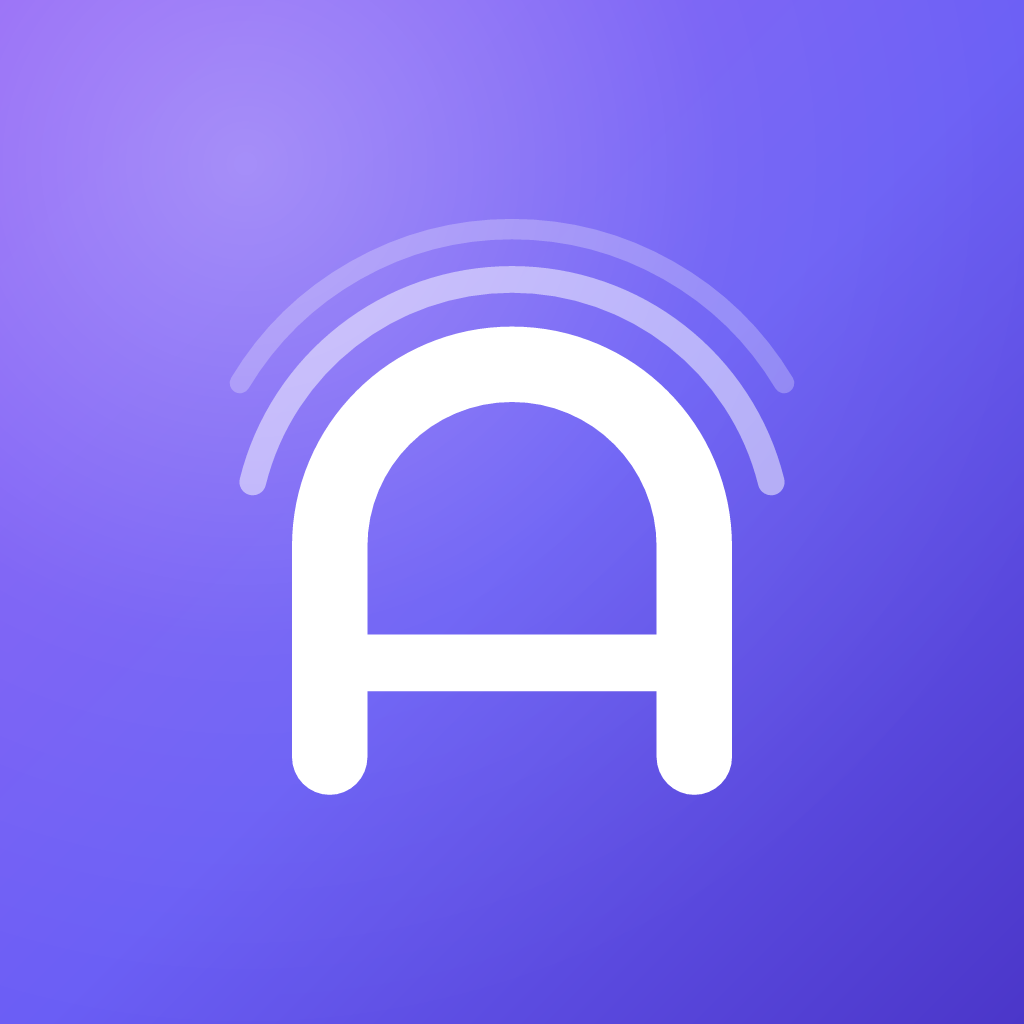
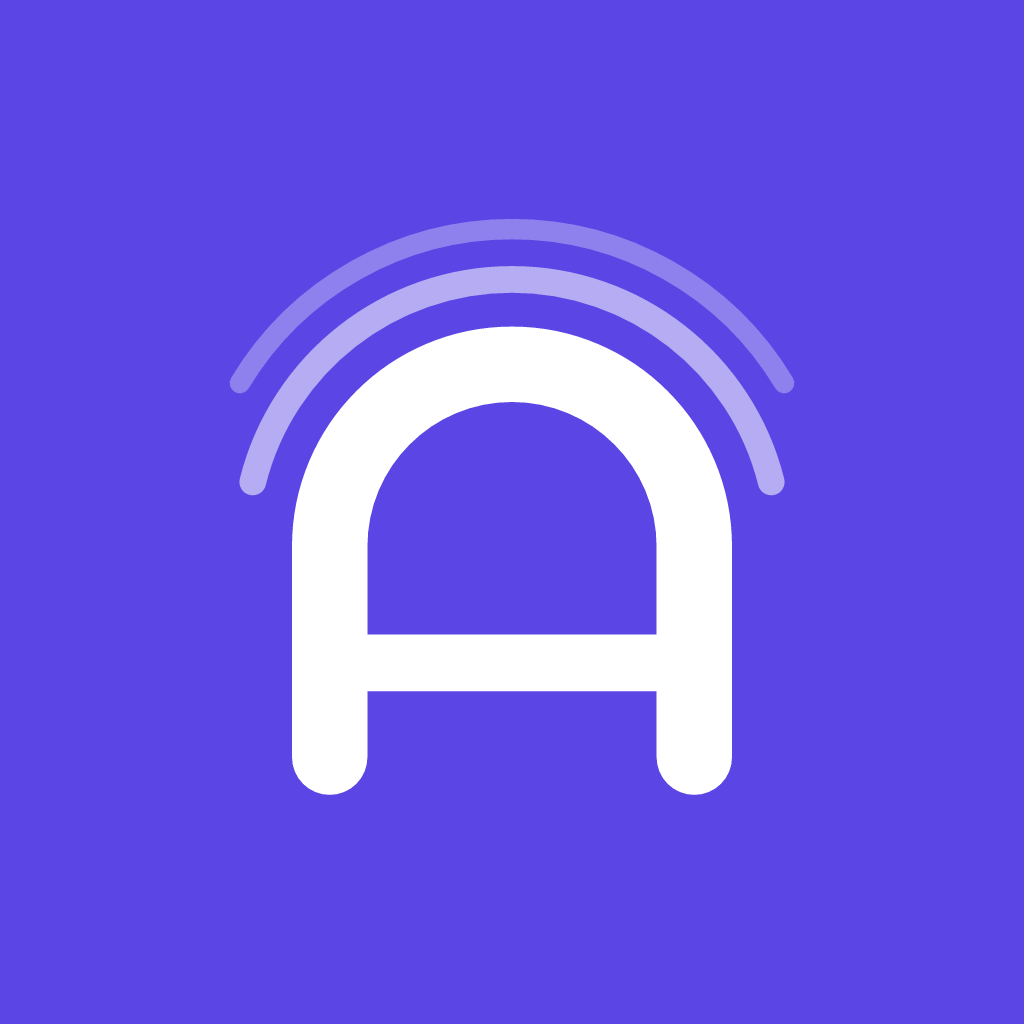
Brand: drop every gradient, flat brand colour only
Icon tile, mark and lockups now use a single flat brand indigo (#5B46E5,
colors.brand[600]) with brand.300 / brand.200 for the two aura arcs; on the
brand tile the arcs are flat white knocked back with a plain alpha. Removes the
linear/radial gradient defs, the icon's radial glow and the adaptive-icon
background bitmap - Android now just takes adaptiveIcon.backgroundColor.

Flat also shrinks the set: icon.png 92 kB -> 15 kB, whole brand set ~310 kB ->
~124 kB, and it stays legible at 24px and in one-colour printing.

diff --git a/AurasureApp/README.md b/AurasureApp/README.md
@@ -191,8 +191,9 @@ favorites synchronise to the server later.
 
 Every logo, icon and splash bitmap is generated from one vector definition in
 `scripts/generate-brand.mjs` — the "aura arch" A (rounded arch + crossbar wrapped in two aura
-arcs) in the brand indigo→violet from `src/theme/colors.ts`. Never hand-edit the PNGs; change
-the geometry or colours in the script and re-run it.
+arcs). Flat colour only, no gradients: brand `#5B46E5` with the `brand.300` / `brand.200` tints
+for the arcs, all from `src/theme/colors.ts`. Never hand-edit the PNGs; change the geometry or
+colours in the script and re-run it.
 
 ```bash
 mkdir -p /tmp/brand && cd /tmp/brand
@@ -202,9 +203,8 @@ BRAND_DEPS=$PWD node <repo>/AurasureApp/scripts/generate-brand.mjs
 
 | File | Size | Used by |
 | --- | --- | --- |
-| `icon.png` | 1024² opaque | iOS app icon, Android legacy icon, store listings |
+| `icon.png` | 1024² opaque | iOS app icon, Android legacy icon, store listings (flat `#5B46E5` tile) |
 | `adaptive-icon.png` | 1024² alpha | Android adaptive foreground (glyph inside the 66% safe zone) |
-| `adaptive-icon-background.png` | 1024² opaque | Android adaptive background (gradient) |
 | `adaptive-icon-monochrome.png` | 1024² alpha | Android 13+ themed icons |
 | `splash-icon.png` | 1200² alpha | `expo-splash-screen` (vertical lockup) |
 | `favicon.png` | 96² | web |
